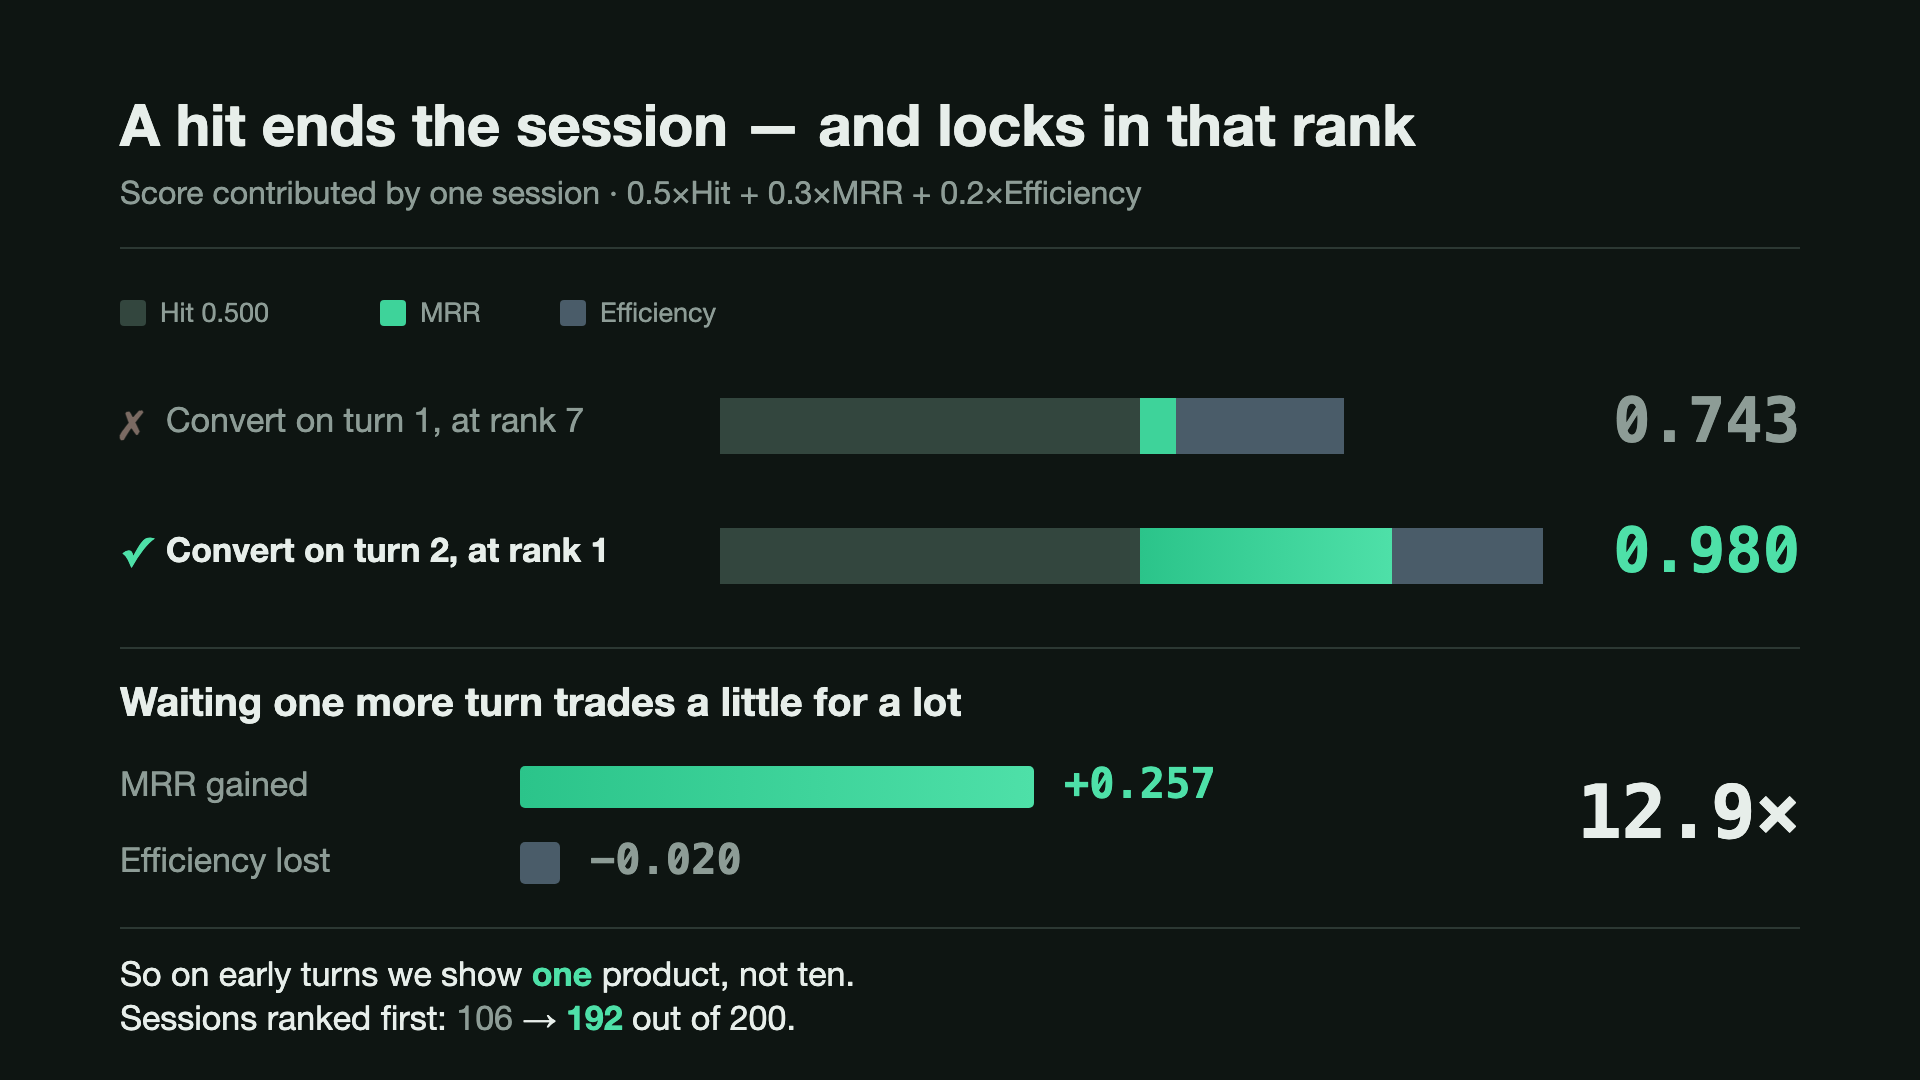
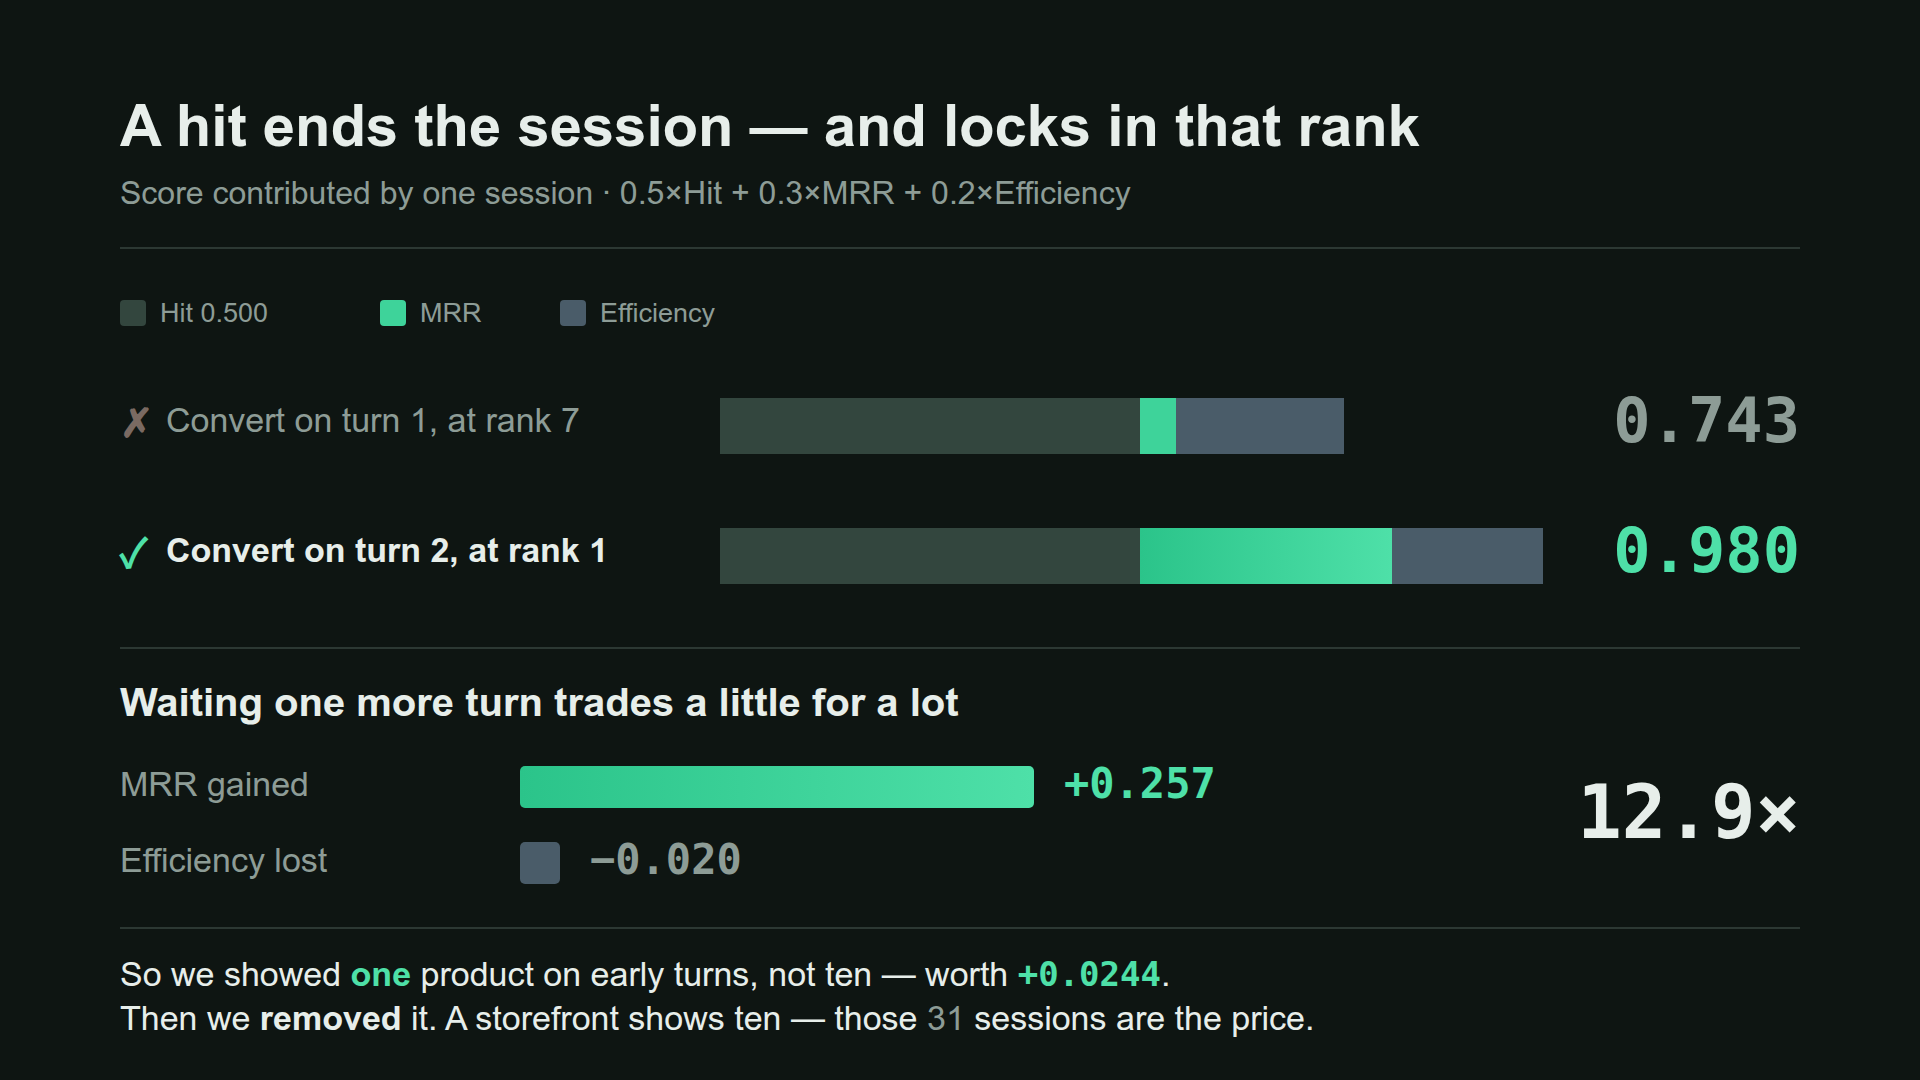
开录前修图：账本图底部两行改成与口播一致（T-034①）+ 脚本两处行数/数字更正
withholding-ledger.svg：底部两行原本是现在时主张——'So on early turns we show one
product, not ten' 与 'Sessions ranked first: 106 → 192'——与提交配置（EARLY_TOPK=0）
相反，也与幕 4 口播 'Then we removed it' 互相否定，且 192 已过期（提交档为 162）。
改为叙事顺序一致的两行：'So we showed one product on early turns, not ten — worth
+0.0244.' / 'Then we removed it. A storefront shows ten — those 31 sessions are the
price.' 图的上半部分（0.743 vs 0.980 那笔账、12.9×）一帧未动，它现在是弃权的证据。
图头注释同步更正。PNG 已用无头 Chrome 重出 1920×1080 并整张渲染核对（无重叠、无溢出）。

脚本：幕 2 命令注释「只有 22 行」→ 实测 40 行（撤销藏牌后每轮列 10 件），
补终端字号建议；幕 4 改稿依据 MTTC 1.920 → 1.935，并标注口播 'almost three points'
应为 +0.0244。

开录预检：0.946642 / check_guards 全部通过 / 幕 1 截断后 39 行（与脚本一致）。

diff --git a/team/C-demo脚本.md b/team/C-demo脚本.md
@@ -149,7 +149,9 @@ Turn 2  User:  For that, what matters is: polyester; 75% Polyester, 20% Rayon, 5
 而且删掉没有损失任何"找得到"的能力：五个改写档命中率一档没掉，agent 反而更快了。
 
 > 📌 **改稿依据（08-31）**：账本图一帧不用改——它从"战果"变成了"弃权的证据"。
-> 实测：撤销后五档 HitRate 逐档完全不变、MTTC 2.155→1.920，代价 100% 落在 MRR。
+> 实测：撤销后五档 HitRate 逐档完全不变、MTTC 2.130→**1.935**，代价 100% 落在 MRR。
+> ⚠ 09-01 更正：口播里的 "almost three points" 应为 **+0.0244**（0.9466 → 0.9710，提交档实测）；
+> 旧的 0.0286 是先验重扫前 `POP_WEIGHT=2.0` 的 like-for-like 值。账本图底部两行已按此改（见 T-034）。
 > 原理没丢，只是搬到了检索侧（何时引入语义候选，而非何时少展示），见 REPORT §5 与实验 40。
 
 **② 我们定了一条停止准则**
@@ -295,7 +297,7 @@ AGENT_IMPL=baseline python3 scripts/trace_session.py --id public_0007 | sed -n '
 第 2 轮拿"你问我一个具体属性吧"这句抱怨当搜索词后，top-10 直接崩成
 **自行车裤 / 万圣节袜子 / 束腰马甲 / 鼻环** —— 讲解词里点名的那几样都在。
 
-## 幕 2 的命令不用截断
+## 幕 2 的命令不用截断（但要注意行数：实测 40 行，非原写的 22 行）
 
 ```bash
 python3 scripts/trace_session.py --id public_0007
@@ -360,7 +362,8 @@ python3 scripts/trace_session.py --id public_0007
 # 幕 1 —— 必须截断，跑满 10 轮是 152 行，会刷屏
 AGENT_IMPL=baseline python3 scripts/trace_session.py --id public_0007 | sed -n '1,/第 3 轮/p' | sed '$d'
 
-# 幕 2 —— 不用截断，只有 22 行
+# 幕 2 —— 撤销藏牌后每轮列 10 件，实测 40 行（脚本原写的 22 行是藏牌时代的数）
+# 40 行 + 命令行 ≈ 42 行：终端字号用 14pt 全屏可容纳；18pt 会滚屏
 python3 scripts/trace_session.py --id public_0007
 ```
 
